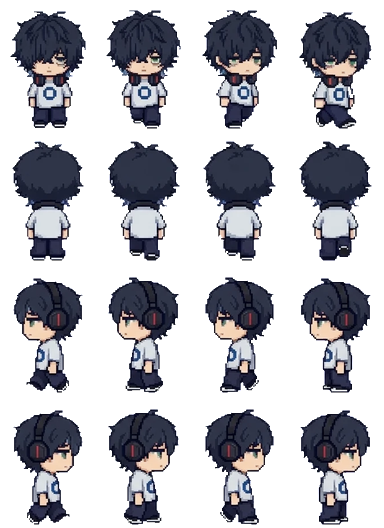
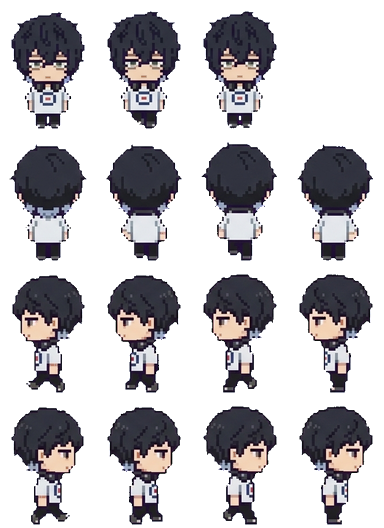
Redraw Magami Keigo in the shared art style
Claude-Session: https://claude.ai/code/session_01KaPsBYLrtbRfMYNG2xeBCK

diff --git a/docs/app.js b/docs/app.js
@@ -75,7 +75,7 @@ function spr(cat, k, col, sc) {
   return `<div class="clip" style="width:${it[2] * sc}px;height:${it[3] * sc}px;POS"><img class="px" src="assets/decor/${cat}.png" alt="" style="width:${S.sw * sc}px;height:${S.sh * sc}px;margin-left:${-col * S.cw * sc}px;margin-top:${-i * S.ch * sc}px"></div>`;
 }
 const icon = (k, sz) => `<span class="itm" style="width:${sz}px;height:${sz}px"><img class="px" src="assets/ui/items.png" alt="" style="width:${IT.length * sz}px;height:${sz}px;margin-left:${-ITM[k].i * sz}px"></span>`;
-const face = (id, w) => { const s = w / 96; return `<img class="px" src="assets/ch/${id}.webp?v=51" alt="" style="position:absolute;width:${384 * s}px;height:${528 * s}px;left:${-(96 * s - w) / 2}px;top:0;max-width:none">`; };
+const face = (id, w) => { const s = w / 96; return `<img class="px" src="assets/ch/${id}.webp?v=52" alt="" style="position:absolute;width:${384 * s}px;height:${528 * s}px;left:${-(96 * s - w) / 2}px;top:0;max-width:none">`; };
 
 // ---------- 저장 ----------
 let fb = null, user = null, S = null, saveT = null;
@@ -143,7 +143,7 @@ function sleepHTML(id, r, dy) {
   const pos = r.a && r.a[0] === 'bed' ? 'left:3%;bottom:20%' : r.b && r.b[0] === 'bed' ? 'right:3%;bottom:20%' : 'left:calc(50% - 44px);bottom:6%';
   const s = 36 / 96;
   return `<div style="position:absolute;width:88px;height:56px;${pos};z-index:${dy ? 4 : 5};${dy ? `transform:translate(12px,${dy}px)` : ''}"><div style="position:absolute;inset:0;filter:brightness(.22)">
-    <div style="position:absolute;left:11px;top:1px;width:36px;height:50px;overflow:hidden;transform:rotate(-90deg)"><img class="px" src="assets/ch/${id}.webp?v=51" alt="" style="width:${384 * s}px;height:${528 * s}px;max-width:none;margin-top:${-132 * s}px"></div>
+    <div style="position:absolute;left:11px;top:1px;width:36px;height:50px;overflow:hidden;transform:rotate(-90deg)"><img class="px" src="assets/ch/${id}.webp?v=52" alt="" style="width:${384 * s}px;height:${528 * s}px;max-width:none;margin-top:${-132 * s}px"></div>
     <div style="position:absolute;left:19px;top:19px;width:67px;height:29px;border:2px solid var(--ink);border-radius:8px 6px 4px 4px;background:#8ccff5;background-image:repeating-linear-gradient(90deg,transparent 0 10px,rgba(255,255,255,.5) 10px 13px)"></div></div>
     ${dy ? '' : '<span class="emo" style="left:8px;top:-22px;color:#5b6bd6">Z z z</span>'}</div>`;
 }
@@ -153,8 +153,8 @@ function roomHTML(id, o, scale) {
     <div class="floor" style="background-color:${PAL[r.fc][1]};background-image:${tileUrl('floor', r.fl)}"></div>
     ${slot('deco', r.dc, 'left:6%;top:6%')}${slot('furn', r.a, 'left:3%;bottom:20%')}${slot('furn', r.b, 'right:3%;bottom:20%')}${slot('prop', r.pr, 'left:28%;bottom:4%;z-index:2')}
     ${id && o.sleeping && g ? sleepHTML(g, r, -16) : ''}${id && o.sleeping ? sleepHTML(id, r) : ''}${id && o.job ? `<div style="position:absolute;left:50%;top:38%;transform:translateX(-50%);z-index:5;background:#fff;border:3px solid var(--ink);border-radius:10px;padding:6px 10px;font-size:11px;text-align:center;line-height:1.5"><img src="assets/ui/ic_job.png" alt="" style="width:18px;vertical-align:-4px"> ${WORK[id] ? WORK[id][1] : esc(JOB_NAME[id]) + ' 알바 중'}${g ? `<br><small>${esc(nameOf(g))}도 같이</small>` : ''}<br><b id="jobleft">${timeLeft(o.job.until)}</b></div>` : ''}
-    ${id ? `<div class="shadow" id="shd" ${o.sleeping || o.job ? 'style="display:none"' : ''}></div><div class="man" id="man" ${o.sleeping || o.job ? 'style="display:none"' : ''}><img class="px" src="assets/ch/${id}.webp?v=51" alt="${esc(nameOf(id))}"></div><span class="emo" id="emo" hidden></span><span class="mumble" id="mum" hidden></span>` : ''}
-    ${g ? `<div class="shadow" id="gshd" ${hideG}></div><div class="man" id="gman" ${hideG}><img class="px" src="assets/ch/${g}.webp?v=51" alt="${esc(nameOf(g))}"></div><span class="emo" id="gemo" hidden></span><span class="mumble gmum" id="gmum" hidden></span>` : ''}
+    ${id ? `<div class="shadow" id="shd" ${o.sleeping || o.job ? 'style="display:none"' : ''}></div><div class="man" id="man" ${o.sleeping || o.job ? 'style="display:none"' : ''}><img class="px" src="assets/ch/${id}.webp?v=52" alt="${esc(nameOf(id))}"></div><span class="emo" id="emo" hidden></span><span class="mumble" id="mum" hidden></span>` : ''}
+    ${g ? `<div class="shadow" id="gshd" ${hideG}></div><div class="man" id="gman" ${hideG}><img class="px" src="assets/ch/${g}.webp?v=52" alt="${esc(nameOf(g))}"></div><span class="emo" id="gemo" hidden></span><span class="mumble gmum" id="gmum" hidden></span>` : ''}
     ${o.sleeping ? `<div class="night"></div><div class="sleepleft">쿨쿨 · 일어나기까지 <b id="sleepleft">${timeLeft(wakeAt(o)).replace(' 남음', '')}</b></div>` : ''}
   </div>`;
 }
@@ -167,7 +167,7 @@ function meterHTML(o) {
 const ic = (act, img, label, pressed) => `<button class="ic" data-act="${act}" ${pressed ? 'aria-pressed="true"' : ''}><img src="assets/ui/ic_${img}.png?v=2" alt="">${label}</button>`;
 
 let dropStyle = null; const cheat = {};
-const APP_V = 123, COUPONS = { NINOGUYA: 3000 };
+const APP_V = 124, COUPONS = { NINOGUYA: 3000 };
 // 쿠폰 입력 정리: 한글 자판 상태로 친 글자(ㅜㅑㅜㅐ혀ㅛㅁ)도 영어 자판 글자로 바꾸고, 대소문자·띄어쓰기·마침표는 무시해요
 const KEY = { ㄱ: 'r', ㄲ: 'R', ㄴ: 's', ㄷ: 'e', ㄸ: 'E', ㄹ: 'f', ㅁ: 'a', ㅂ: 'q', ㅃ: 'Q', ㅅ: 't', ㅆ: 'T', ㅇ: 'd', ㅈ: 'w', ㅉ: 'W', ㅊ: 'c', ㅋ: 'z', ㅌ: 'x', ㅍ: 'v', ㅎ: 'g',
   ㅏ: 'k', ㅐ: 'o', ㅑ: 'i', ㅒ: 'O', ㅓ: 'j', ㅔ: 'p', ㅕ: 'u', ㅖ: 'P', ㅗ: 'h', ㅘ: 'hk', ㅙ: 'ho', ㅚ: 'hl', ㅛ: 'y', ㅜ: 'n', ㅝ: 'nj', ㅞ: 'np', ㅟ: 'nl', ㅠ: 'b', ㅡ: 'm', ㅢ: 'ml', ㅣ: 'l',
@@ -407,7 +407,7 @@ function startTrip(k) {
   if (tg) lines[1] = `${nameOf(tg)}: ${withHim(sub(pick(GLX(tg).trip), o, c.n), tg)}`;
   const n = (FR[id] || [4, 4, 4, 4])[3], el = document.createElement('div'); el.className = 'tripview';
   el.innerHTML = `<div class="tsay"> </div><div class="tstage" style="background-image:url(assets/travel/${k}.png?v=2)"><div class="tplace">${esc(c.n)}</div>
-    <div class="twalker"><img class="px" src="assets/ch/${id}.webp?v=51" alt=""></div>${tg ? `<div class="twalker tgirl"><img class="px" src="assets/ch/${tg}.webp?v=51" alt=""></div>` : ''}<span class="emo tjoy">♪</span></div>
+    <div class="twalker"><img class="px" src="assets/ch/${id}.webp?v=52" alt=""></div>${tg ? `<div class="twalker tgirl"><img class="px" src="assets/ch/${tg}.webp?v=52" alt=""></div>` : ''}<span class="emo tjoy">♪</span></div>
     <div class="tbar"><i></i></div><button class="btn white tskip" data-tskip="1">바로 돌아오기</button>`;
   document.body.appendChild(el);
   const gimg = el.querySelector('.tgirl img'), gn = tg ? (FR[tg] || [4, 4, 4, 4])[3] : 1;
@@ -636,7 +636,7 @@ setInterval(() => { if (S && user) { tickTime(); save(); } }, 60000);
     if (nv > APP_V && !location.search.includes('u=' + nv)) { location.replace(location.pathname + '?u=' + nv); return; }
   } catch { }
   app.innerHTML = '<div class="start"><div class="egg"><div class="scr"></div></div><div class="note">불러오는 중....</div></div>';
-  const [c, t, f, it, mu, ct, tv, gl, sts] = await Promise.all(['data/chars.json', 'data/talk.json', 'data/frames.json', 'data/items.json', 'data/mumble.json', 'data/countries.json', 'data/travel.json', 'data/girls.json', 'data/sets.json'].map(u => fetch(u + '?v=123').then(r => r.ok ? r.json() : {})));
+  const [c, t, f, it, mu, ct, tv, gl, sts] = await Promise.all(['data/chars.json', 'data/talk.json', 'data/frames.json', 'data/items.json', 'data/mumble.json', 'data/countries.json', 'data/travel.json', 'data/girls.json', 'data/sets.json'].map(u => fetch(u + '?v=124').then(r => r.ok ? r.json() : {})));
   CH = c; CHM = Object.fromEntries(c.map(x => [x.id, x])); TALK = t; FR = f; IT = it; ITM = Object.fromEntries(it.map(x => [x.k, x])); MUM = mu; CTRY = ct; TRV = tv; GL = Array.isArray(gl) ? gl : []; SETS = Array.isArray(sts) ? sts : []; GLM = Object.fromEntries(GL.map(x => [x.id, x]));
   try { await initFirebase(); } catch (e) { console.warn('Firebase 연결 실패, 기기 저장으로', e); fb = null; }
   if (fb) {

diff --git a/docs/index.html b/docs/index.html
@@ -18,6 +18,6 @@
 <main id="app" aria-live="polite"></main>
 <div id="toast" role="status" hidden></div>
 <script src="firebase-config.js?v=3"></script>
-<script type="module" src="app.js?v=123"></script>
+<script type="module" src="app.js?v=124"></script>
 </body>
 </html>
